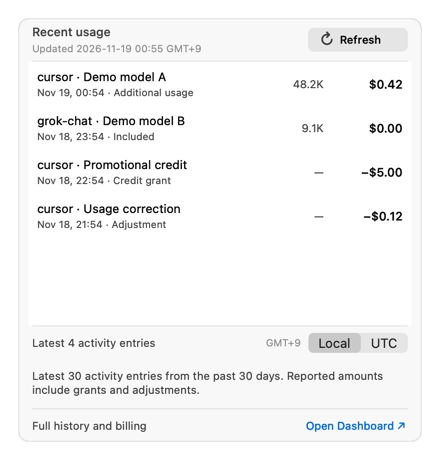
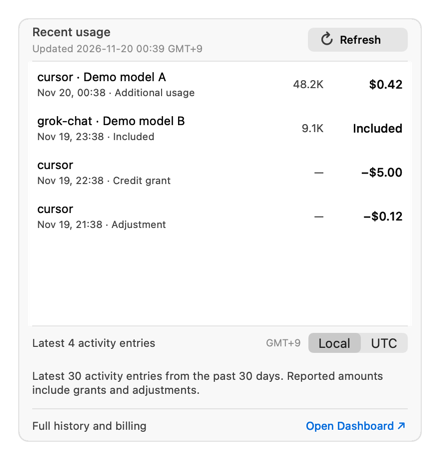
[#148] fix: distinguish included activity from billed amounts
Show Included for confirmed zero shared included amounts, expose precise USD details, and omit user display names from model labels. Refresh shared Today indicators at UTC boundaries and clarify unavailable chart data.

Validation: 1,295 tests passed, release build, synthetic light/dark UI captures, specification review, and Argon High focused re-review.

diff --git a/docs/mockup-148-recent-amounts.html b/docs/mockup-148-recent-amounts.html
@@ -1,0 +1,14 @@
+<!doctype html><html lang="en"><meta charset="utf-8"><meta name="viewport" content="width=device-width"><title>Issue 148 · Recent activity amounts</title>
+<style>body{margin:36px;background:#202020;color:#eee;font:14px -apple-system,BlinkMacSystemFont,sans-serif}h1{font-size:20px;margin-bottom:8px}p{color:#aaa;line-height:1.5;max-width:940px}.compare{display:flex;gap:28px;flex-wrap:wrap}.panel{width:440px}h2{font-size:14px;color:#aaa}.card{border:1px solid #555;border-radius:14px;padding:14px;background:#2c2c2c}.heading{display:flex;justify-content:space-between;align-items:center;font-weight:600;font-size:16px}.refresh{background:#555;padding:5px 20px;border-radius:7px;font-size:13px}.updated{font-size:11px;color:#999;margin:4px 0 10px}.row{display:grid;grid-template-columns:minmax(0,1fr) 62px 79px;align-items:center;min-height:52px;background:#232323;padding:0 8px;gap:4px}.name{font-size:13px;white-space:nowrap;overflow:hidden;text-overflow:ellipsis}.kind{font-size:11px;color:#aaa;margin-top:4px}.tokens{text-align:right;color:#bbb;font-size:12px}.amount{text-align:right;font-weight:600;font-size:13px}.hint{color:#aaa;font-size:11px;line-height:1.5;margin-top:12px}.note{border-left:3px solid #777;padding-left:12px;font-size:12px;color:#ccc;margin-top:16px}.exact{font-family:ui-monospace,monospace;font-size:12px}</style>
+<h1>Recent activity: distinguish included usage from additional charges</h1><p>Existing layout, token column and compact amount width stay the same. Examples below are synthetic. Known included zero becomes Included; missing amounts remain unavailable.</p><div class="compare">
+<section class="panel"><h2>Before</h2><div class="card"><div class="heading">Recent usage <span class="refresh">↻ Refresh</span></div><div class="updated">Updated just now</div>
+<div class="row"><div><div class="name">grok-bot · Demo User</div><div class="kind">Nov 20, 00:26 · Included</div></div><span class="tokens">52.4K</span><span class="amount">$0.00</span></div>
+<div class="row"><div><div class="name">grok-bot · Demo User</div><div class="kind">Nov 20, 00:25 · Included</div></div><span class="tokens">129.1K</span><span class="amount">$0.00</span></div>
+<div class="row"><div><div class="name">cursor · Demo model</div><div class="kind">Nov 20, 00:24 · Additional usage</div></div><span class="tokens">8.2K</span><span class="amount">$0.12</span></div>
+<div class="hint">Latest 30 activity entries from the past 30 days. Reported amounts include grants and adjustments.</div></div></section>
+<section class="panel"><h2>After</h2><div class="card"><div class="heading">Recent usage <span class="refresh">↻ Refresh</span></div><div class="updated">Updated just now</div>
+<div class="row"><div><div class="name">grok-bot</div><div class="kind">Nov 20, 00:26 · Included</div></div><span class="tokens">52.4K</span><span class="amount" title="Included in plan · Reported amount: $0.00">Included</span></div>
+<div class="row"><div><div class="name">grok-bot</div><div class="kind">Nov 20, 00:25 · Included</div></div><span class="tokens">129.1K</span><span class="amount" title="Included in plan · Reported amount: $0.00">Included</span></div>
+<div class="row"><div><div class="name">cursor · Demo model</div><div class="kind">Nov 20, 00:24 · Additional usage</div></div><span class="tokens">8.2K</span><span class="amount" title="Reported amount: $0.1234567891">$0.12</span></div>
+<div class="hint">Latest 30 activity entries from the past 30 days. Reported amounts include grants and adjustments.</div></div><div class="note">Hover or accessibility help exposes the exact reported amount:<br><span class="exact">Reported amount: $0.1234567891</span></div></section></div>
+<p>Paid zero stays $0.00. Unknown stays —. Credit grants and adjustments keep their sign. No estimated retail value is substituted for included usage. A user display name is not a model name.</p></html>

diff --git a/Tests/CursorMeterTests/SharedActivityModelsTests.swift b/Tests/CursorMeterTests/SharedActivityModelsTests.swift
@@ -33,6 +33,47 @@ final class SharedActivityModelsTests: XCTestCase {
         XCTAssertThrowsError(try decode("{}", SharedBillingItemsResponse.self))
     }
 
+    func testOnlySharedIncludedKnownZeroUsesIncludedAmountLabel() {
+        for (kind, cents, expected): (RecentUsageKind, Decimal?, String) in [
+            (.included, 0, "Included"), (.included, nil, "—"), (.included, 125, "$1.25"),
+            (.additionalUsage, 0, "$0.00"), (.creditGrant, -125, "−$1.25"),
+            (.adjustment, Decimal(string: "-0.00000001"), "−<$0.0001"),
+            (.included, Decimal(string: "0.00000001"), "<$0.0001"),
+        ] {
+            let entry = RecentUsageEntry(date: now, model: nil, kind: kind, tokens: nil,
+                                         chargedCents: nil, exactChargedCents: cents)
+            XCTAssertEqual(RecentUsageFormatter.amount(entry: entry), expected)
+        }
+        let legacy = RecentUsageEntry(date: now, model: nil, kind: .included, tokens: nil, chargedCents: 0)
+        XCTAssertEqual(RecentUsageFormatter.amount(entry: legacy), "$0.00")
+    }
+
+    func testRecentNeverStoresDisplayLabelOrPrincipalAsModelContext() throws {
+        let response: SharedBillingItemsResponse = try decode(#"{"data":[{"eventTime":"2026-11-18T00:00:00Z","product":"cursor","chargeCategory":"usage","usageType":"included","displayExtras":{"displayLabel":"Synthetic Account Holder","principal":"private@example.invalid"}},{"eventTime":"2026-11-18T00:00:00Z","chargeCategory":"credit","displayExtras":{"displayLabel":"Synthetic Account Holder"}}],"pagination":{"hasMore":false}}"#)
+        let candidate = try response.candidate(start: now.addingTimeInterval(-30 * 86400), end: now)
+        XCTAssertEqual(candidate.entries[0].model, "cursor")
+        XCTAssertNil(candidate.entries[1].model)
+        XCTAssertEqual(candidate.entries[1].kind, .creditGrant)
+        for value in ["Synthetic Account Holder", "private@example.invalid"] {
+            XCTAssertFalse(String(describing: response).contains(value))
+            XCTAssertFalse(String(describing: candidate).contains(value))
+        }
+    }
+
+    func testReportedUSDUsesExactDecimalsForSmallSignedAndLargeValues() throws {
+        for usd in ["0.00", "12.30", "0.1234567891", "0.0000000001", "-0.0000000001", "-123.4567890123", "9999999999999.1234567891"] {
+            let cents = try XCTUnwrap(SharedActivityValue.cents(usd, signed: true))
+            let entry = RecentUsageEntry(date: now, model: nil, kind: .adjustment, tokens: nil,
+                                         chargedCents: nil, exactChargedCents: cents)
+            let expected = usd.hasPrefix("-") ? "−$" + usd.dropFirst() : "$" + usd
+            XCTAssertEqual(RecentUsageFormatter.reportedAmount(entry: entry), "Reported amount: \(expected) USD")
+        }
+        let unknown = RecentUsageEntry(date: now, model: nil, kind: .included, tokens: nil, chargedCents: nil)
+        let legacy = RecentUsageEntry(date: now, model: nil, kind: .included, tokens: nil, chargedCents: 12.34)
+        XCTAssertNil(RecentUsageFormatter.reportedAmount(entry: unknown))
+        XCTAssertNil(RecentUsageFormatter.reportedAmount(entry: legacy))
+    }
+
     func testDailyRanksDoNotDoubleCountUnionAndUseSevenUTCDateBuckets() throws {
         let response: SharedDailyUsageResponse = try decode(daily(series: [series(type: "included", costRank: 1, tokenRank: 21, cost: "1.25", tokens: 900), series(type: "on_demand", costRank: 21, tokenRank: 1, cost: "8", tokens: 100)], otherCost: "0.01", otherTokens: 5))
         let days = try response.days(start: start, end: now)

diff --git a/Tests/CursorMeterTests/SharedUsageUITests.swift b/Tests/CursorMeterTests/SharedUsageUITests.swift
@@ -413,6 +413,37 @@ final class SharedUsageUITests: XCTestCase {
         XCTAssertFalse(status?.isHiddenOrHasHiddenAncestor ?? true)
     }
 
+    func testUnavailableSharedChartRetainsDailyUTCCaption() async throws {
+        let vm = await makeSharedUsageUIViewModel(test: self)
+        vm.sharedActivity.recordFailure()
+        let vc = popover(vm)
+        let status = try XCTUnwrap(views(vc.view).compactMap { $0 as? NSTextField }
+            .first { $0.accessibilityIdentifier() == "weeklyChartStatus" })
+        XCTAssertEqual(vm.displayedWeeklyChartStatus, .unavailable)
+        XCTAssertEqual(status.stringValue, "Daily activity unavailable · UTC")
+        XCTAssertTrue(status.toolTip?.contains("UTC calendar days") == true)
+        XCTAssertFalse(status.isHiddenOrHasHiddenAncestor)
+    }
+
+    func testSharedAmountCellsKeepCompactWidthAndExposeReportedUSD() async throws {
+        let vm = await makeSharedUsageUIViewModel(activity: SharedActivityUIFixture(), test: self)
+        let vc = SettingsUsageTabViewController(viewModel: vm)
+        _ = vc.view
+        let table = try XCTUnwrap(views(vc.view).compactMap { $0 as? NSTableView }.first)
+        let column = try XCTUnwrap(table.tableColumns.first { $0.identifier.rawValue == "amount" })
+        XCTAssertEqual(column.width, 79)
+        for (index, expected, reported) in [
+            (0, "$0.42", "$0.421"), (1, "Included", "$0.00"),
+            (2, "−$5.00", "−$5.00"), (3, "−$0.12", "−$0.12"),
+        ] {
+            let cell = try XCTUnwrap(vc.tableView(table, viewFor: column, row: index))
+            let amount = try XCTUnwrap(views(cell).compactMap { $0 as? NSTextField }.first)
+            XCTAssertEqual(amount.stringValue, expected)
+            XCTAssertEqual(amount.toolTip, "Reported amount: \(reported) USD")
+            XCTAssertEqual(amount.accessibilityHelp(), "Reported amount: \(reported) USD")
+        }
+    }
+
     func testSharedSurfacesRenderSyntheticArtifacts() async throws {
         let normal = await makeSharedUsageUIViewModel(activity: SharedActivityUIFixture(), test: self)
         normal.notificationEnabled = true

diff --git a/Sources/CursorMeter/SharedActivityModels.swift b/Sources/CursorMeter/SharedActivityModels.swift
@@ -81,7 +81,7 @@ struct SharedBillingItemsResponse: Decodable, Sendable {
                 }
             default: kind = .other
             }
-            let context = [item.product, item.model ?? item.displayLabel].compactMap { $0 }
+            let context = [item.product, item.model].compactMap { $0 }
             return RecentUsageEntry(date: date, model: context.isEmpty ? nil : context.joined(separator: " · "),
                 kind: kind, tokens: item.hasTokenMeters == false ? nil : SharedActivityValue.tokenCount(item.tokens),
                 chargedCents: nil, exactChargedCents: item.currency == "USD"
@@ -97,7 +97,6 @@ struct SharedBillingItemsResponse: Decodable, Sendable {
         let id: String?
         let product: String?
         let model: String?
-        let displayLabel: String?
         let chargeCategory: String
         let usageType: String?
         let tokens: String?
@@ -106,7 +105,7 @@ struct SharedBillingItemsResponse: Decodable, Sendable {
         let cost: String?
         private enum CodingKeys: String, CodingKey { case eventTime, billingItemId, product, chargeCategory, usageType, totalTokens, hasTokenMeters, pricing, displayExtras }
         private enum PricingKeys: String, CodingKey { case currency, contracted }
-        private enum ExtrasKeys: String, CodingKey { case model, displayLabel }
+        private enum ExtrasKeys: String, CodingKey { case model }
         init(from decoder: Decoder) throws {
             let c = try decoder.container(keyedBy: CodingKeys.self)
             eventTime = try c.decode(String.self, forKey: .eventTime)
@@ -121,7 +120,6 @@ struct SharedBillingItemsResponse: Decodable, Sendable {
             cost = try? pricing?.decode(String.self, forKey: .contracted)
             let extras = try? c.nestedContainer(keyedBy: ExtrasKeys.self, forKey: .displayExtras)
             model = SharedActivityValue.text(try? extras?.decode(String.self, forKey: .model))
-            displayLabel = SharedActivityValue.text(try? extras?.decode(String.self, forKey: .displayLabel))
         }
     }
 }

diff --git a/Tests/CursorMeterTests/PopoverDayBoundaryTests.swift b/Tests/CursorMeterTests/PopoverDayBoundaryTests.swift
@@ -1,0 +1,31 @@
+import XCTest
+@testable import CursorMeter
+
+final class PopoverDayBoundaryTests: XCTestCase {
+    func testSharedPopoverRedrawsAtBothUTCAndKSTMidnights() throws {
+        var clock = date("2026-11-19T14:59:59Z")
+        for expected in ["2026-11-19T15:00:00Z", "2026-11-20T00:00:00Z", "2026-11-20T15:00:00Z"] {
+            let next = try XCTUnwrap(PopoverDayBoundary.next(after: clock, sharedWeekly: true))
+            XCTAssertEqual(next, date(expected))
+            XCTAssertGreaterThan(next, clock)
+            clock = next
+        }
+    }
+
+    func testModeChangeAddsEarlierUTCRefreshAndSwitchingBackRemovesIt() {
+        let clock = date("2026-11-19T23:59:59Z")
+        XCTAssertEqual(PopoverDayBoundary.next(after: clock, sharedWeekly: false), date("2026-11-20T15:00:00Z"))
+        XCTAssertEqual(PopoverDayBoundary.next(after: clock, sharedWeekly: true), date("2026-11-20T00:00:00Z"))
+        XCTAssertEqual(PopoverDayBoundary.next(after: clock, sharedWeekly: false), date("2026-11-20T15:00:00Z"))
+    }
+
+    func testLegacyBoundaryStaysKSTAcrossUTCMidnight() {
+        for clock in [date("2026-11-19T23:59:59Z"), date("2026-11-20T00:00:00Z")] {
+            XCTAssertEqual(TodayUsageDay(containing: clock)?.start, date("2026-11-19T15:00:00Z"))
+            XCTAssertEqual(PopoverDayBoundary.next(after: clock, sharedWeekly: false), date("2026-11-20T15:00:00Z"))
+        }
+        XCTAssertNil(PopoverDayBoundary.next(after: Date(timeIntervalSince1970: .nan), sharedWeekly: true))
+    }
+
+    private func date(_ value: String) -> Date { ISO8601DateFormatter().date(from: value)! }
+}

diff --git a/Sources/CursorMeter/RecentUsageFormatter.swift b/Sources/CursorMeter/RecentUsageFormatter.swift
@@ -17,12 +17,26 @@ enum RecentUsageFormatter {
 
     static func amount(entry: RecentUsageEntry) -> String {
         guard let cents = entry.exactChargedCents else { return amount(cents: entry.chargedCents) }
+        if entry.kind == .included, cents == 0 { return "Included" }
         let magnitude = cents < 0 ? -cents : cents
         let sign = cents < 0 ? "−" : ""
         if magnitude > 0, magnitude < 0.01 { return sign + "<$0.0001" }
         let digits = magnitude > 0 && magnitude < 1 ? 4 : 2
         let formatter = numberFormatter(minimumDigits: digits, maximumDigits: digits)
         return sign + "$" + (formatter.string(from: NSDecimalNumber(decimal: magnitude / 100)) ?? "—")
+    }
+
+    static func reportedAmount(entry: RecentUsageEntry) -> String? {
+        guard let cents = entry.exactChargedCents else { return nil }
+        let sign = cents < 0 ? "−" : ""
+        var dollars = (cents < 0 ? -cents : cents) / 100
+        var rounded = Decimal()
+        NSDecimalRound(&rounded, &dollars, 10, .plain)
+        // NumberFormatter can lose significant digits when bridging a large decimal.
+        let parts = NSDecimalNumber(decimal: rounded).stringValue.split(separator: ".")
+        let fraction = parts.count == 2 ? String(parts[1]) : ""
+        let digits = fraction.padding(toLength: max(2, fraction.count), withPad: "0", startingAt: 0)
+        return "Reported amount: \(sign)$\(parts[0]).\(digits) USD"
     }
 
     static func tokens(_ count: Int?) -> String {

diff --git a/Sources/CursorMeter/CursorMeterApp.swift b/Sources/CursorMeter/CursorMeterApp.swift
@@ -412,9 +412,10 @@ final class AppDelegate: NSObject, NSApplicationDelegate, NSPopoverDelegate, NSW
 
     private func schedulePopoverDayTimer() {
         cancelPopoverDayTimer()
-        guard popover?.isShown == true, let day = TodayUsageDay(containing: Date()) else { return }
+        guard popover?.isShown == true,
+              let boundary = PopoverDayBoundary.next(after: Date(), sharedWeekly: viewModel.sharedUsage.mode == .sharedWeekly) else { return }
         // This boundary only retires yesterday's highlight; normal refresh owns networking.
-        let timer = Timer(fire: day.end, interval: 0, repeats: false) { [weak self] _ in
+        let timer = Timer(fire: boundary, interval: 0, repeats: false) { [weak self] _ in
             Task { @MainActor [weak self] in self?.refreshPopoverDay() }
         }
         popoverDayTimer = timer
@@ -761,6 +762,7 @@ final class AppDelegate: NSObject, NSApplicationDelegate, NSPopoverDelegate, NSW
                 // stop forever after the first skipped change.
                 if self.popover.isShown {
                     (self.popover.contentViewController as? MenuBarPopoverViewController)?.updateUI()
+                    self.schedulePopoverDayTimer()
                 }
                 self.observePopover()
             }

diff --git a/Sources/CursorMeter/MenuBarView.swift b/Sources/CursorMeter/MenuBarView.swift
@@ -739,8 +739,13 @@ final class MenuBarPopoverViewController: NSViewController {
                 weeklyStatusLabel.toolTip = "Weekly refresh failed. Showing the last successful data; retrying on the next refresh."
             }
         case .unavailable:
-            weeklyStatusLabel.stringValue = "Weekly activity unavailable — retrying"
-            weeklyStatusLabel.toolTip = "Weekly activity could not be loaded; retrying on the next refresh."
+            if viewModel.sharedUsage.mode == .sharedWeekly {
+                weeklyStatusLabel.stringValue = "Daily activity unavailable · UTC"
+                weeklyStatusLabel.toolTip = "Daily activity uses UTC calendar days. Data could not be loaded; retrying on the next refresh."
+            } else {
+                weeklyStatusLabel.stringValue = "Weekly activity unavailable — retrying"
+                weeklyStatusLabel.toolTip = "Weekly activity could not be loaded; retrying on the next refresh."
+            }
         case .ready:
             guard viewModel.sharedUsage.mode == .sharedWeekly else { return }
             let hasUnknown = viewModel.displayedWeeklyData?.contains { viewModel.effectiveWeeklyChartMetric.value(for: $0) == nil } == true

diff --git a/Sources/CursorMeter/TodayUsage.swift b/Sources/CursorMeter/TodayUsage.swift
@@ -1,5 +1,15 @@
 import Foundation
 
+enum PopoverDayBoundary {
+    static func next(after instant: Date, sharedWeekly: Bool) -> Date? {
+        guard let kstEnd = TodayUsageDay(containing: instant)?.end else { return nil }
+        guard sharedWeekly, let utcEnd = SharedActivityValue.utc.dateInterval(of: .day, for: instant)?.end else {
+            return kstEnd
+        }
+        return min(kstEnd, utcEnd)
+    }
+}
+
 struct TodayUsageDay: Codable, Equatable, Hashable, Sendable {
     let start: Date
     let end: Date

diff --git a/Sources/CursorMeter/SettingsUsageTabViewController.swift b/Sources/CursorMeter/SettingsUsageTabViewController.swift
@@ -255,6 +255,8 @@ final class SettingsUsageTabViewController: NSViewController, NSTableViewDataSou
             primary = text(RecentUsageFormatter.amount(entry: entry), size: 12, color: .labelColor)
             primary.font = .systemFont(ofSize: 12, weight: .medium)
             primary.alignment = .right
+            primary.toolTip = RecentUsageFormatter.reportedAmount(entry: entry)
+            primary.setAccessibilityHelp(primary.toolTip)
             detail = nil
         }
         host.addSubview(primary)

diff --git a/README.ko.md b/README.ko.md
@@ -32,7 +32,7 @@ Cursor는 [2026년 2월 11일 개인 요금제의 사용량 풀 분리를 공식
 - **주간 사용량 차트** (기존 플랜) — 최근 7일 막대 그래프를 설정 → Display에서 **Amount**(기본값) 또는 **Usage units** 기준으로 선택할 수 있습니다. 막대 높이·색상·툴팁은 같은 지표를 사용합니다. 금액은 추가 청구액뿐 아니라 구독에 포함된 사용 가치까지 합산하며, 금액 데이터가 없으면 가중 사용량 단위(`requestsCosts`)로 표시합니다. 오늘 강조 스타일 3가지(Outline / Dim / Both) 선택 가능.
 - **기존 플랜의 주간 차트 갱신 상태** — 일시적 조회 실패 시 마지막 차트를 유지합니다. 두 번 연속 실패하면 마지막 갱신 날짜와 시각을 표시하고, 아직 이력을 받지 못했다면 작은 재시도 안내를 표시합니다. 기존 새로고침 일정으로 자동 재시도합니다.
 - **사용량 상세** — 팝오버에서 두 영역의 원을 크게 보고 사용률·기록된 달러 비용·둘 다 중 표시 형식을 Display 설정에서 선택합니다. 추정 한도는 기본적으로 꺼져 있으며, 일치하는 사용률과 비용 데이터가 뒷받침할 때만 표시됩니다. 보장된 청구 한도가 아닌 비공식 추정치입니다. 원 전체의 채움과 알림은 항상 서버 사용률을 사용하며, 추가 지출과 Bot 활동은 별도로 표시합니다.
-- **최근 사용 내역** — 설정 → Usage에서 최근 요청 최대 30건의 모델·시각·유형·토큰·달러 금액을 확인할 수 있습니다. 기존 플랜의 Included 금액은 추가 청구액이 아니라 요금제에 포함된 사용 가치입니다. 공유 플랜은 보고된 청구 금액을 표시하고 크레딧 지급·조정을 구분합니다. **Local**(기본값: 이 Mac의 시간대)과 **UTC**를 선택할 수 있으며, **Open Cursor**로 전체 내역과 청구 대시보드를 엽니다.
+- **최근 사용 내역** — 설정 → Usage에서 최근 요청 최대 30건의 모델·시각·유형·토큰·달러 금액을 확인할 수 있습니다. 기존 플랜의 Included 금액은 추가 청구액이 아니라 요금제에 포함된 사용 가치입니다. 공유 플랜은 보고된 청구 금액을 표시하고 크레딧 지급·조정을 구분합니다. 요금제 포함 항목의 금액이 0으로 확인되면 **Included**로 표시하며, 공유 금액에 마우스를 올리면 서버가 보고한 정밀 USD 값을 확인할 수 있습니다. **Local**(기본값: 이 Mac의 시간대)과 **UTC**를 선택할 수 있으며, **Open Cursor**로 전체 내역과 청구 대시보드를 엽니다.
 - **기존 플랜 이력을 이 Mac에 저장** — 최대 30건의 스냅샷 하나를 재시작 후에도 유지하며 원래 캐시 날짜와 시각을 표시합니다. 갱신에 실패해도 사용 가능한 저장 내역은 유지됩니다. Mac마다 캐시와 갱신 일정이 별도로 동작하며, 전체 이력 보관이나 기기 간 동기화 기능은 아닙니다. 공유 플랜 이력은 메모리에 유지하며 앱 실행 후 서버에서 다시 조회합니다.
 - **공통 새로고침** — 팝오버와 Usage 탭은 진행 중인 갱신 하나와 새 갱신 시작 사이의 최소 3초 간격을 공유하며, 진행 피드백을 최소 1.3초 표시합니다. 기존 플랜 목록은 주간 이벤트 응답을 재사용하고, 공유 플랜은 현재 대시보드 활동 API를 조회합니다. 탭을 열거나 시간대를 바꾸는 동작은 요청을 보내지 않습니다.
 - 분리 플랜은 기본적으로 작은 메뉴바 아이콘을 유지합니다. Settings → Display에서 **Show percentages**를 켜면 원 옆에 바깥 계열은 위, 안쪽 계열은 아래로 두 사용률을 표시합니다. hover에서는 계속 두 계열의 이름을 확인하고, 클릭하면 상세 정보를 볼 수 있습니다. 단일 플랜은 기존 아이콘·분수·퍼센트 모드와 저장된 선택을 유지합니다.
